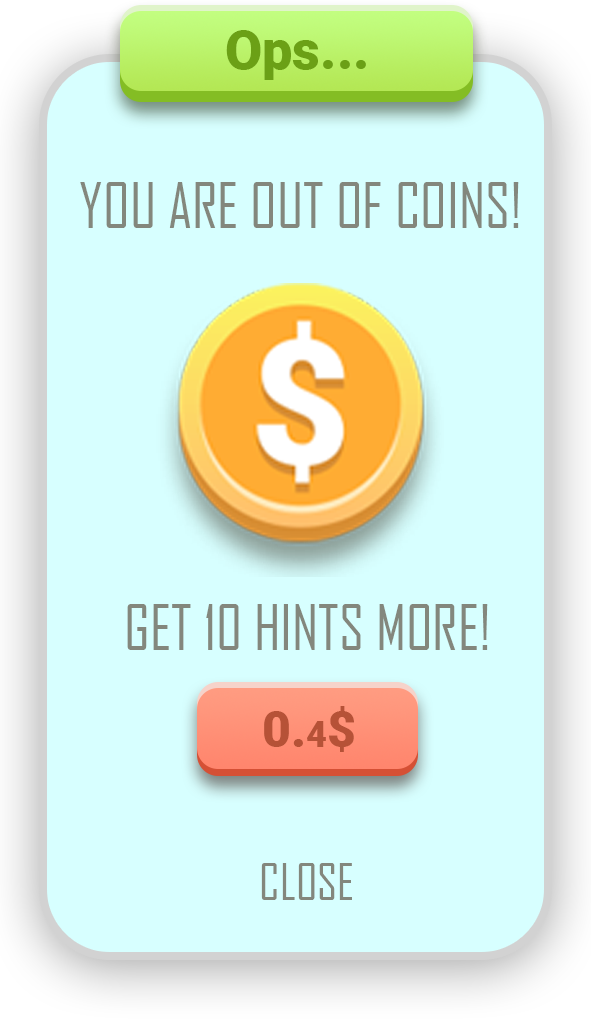
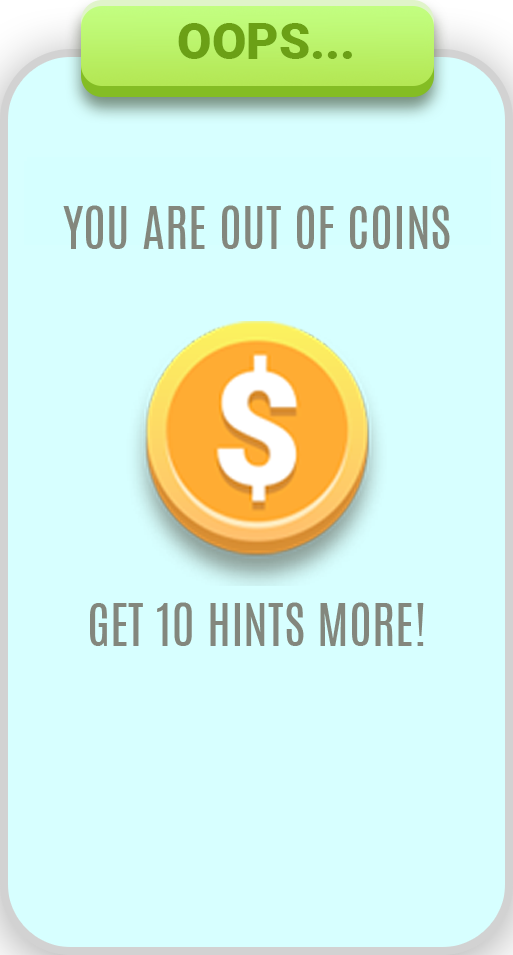
Update out of coins

diff --git a/lib/Screens/GameScreen/Layers/Popups/OutOfCoinsPopup.dart b/lib/Screens/GameScreen/Layers/Popups/OutOfCoinsPopup.dart
@@ -32,53 +32,22 @@ class OutOfCoinsPopup extends StatelessWidget{
                             padding: EdgeInsets.symmetric(vertical: 0, horizontal: 20),
                             child: Container(
                               //color: Colors.blue,
-                              child: Stack(
+                              child: Column(
+                                mainAxisAlignment: MainAxisAlignment.end,
                                 children: [
-                                  Positioned(
-                                        left: 90,
-                                        top: 250,
-                                        width: 130,
-                                        height: 60,
-                                        child:
-                                    Container(
-                                      // decoration: BoxDecoration(
-                                      //     border: Border.all(color: Colors.orangeAccent, width: 4)
-                                      // ),
-                                      child: TextButton(
-                                        style: ButtonStyle(
-                                          foregroundColor: MaterialStateProperty.all<Color>(Colors.blue),
-                                        ),
-                                        onPressed: () {
+                                  GestureDetector(
 
-                                          _onBuyClick(context);
-
-                                          print("TODO: Add analytics on buy btn click");
-                                        },
-                                        child: Text(''),
-                                      ),
-                                    )
-                                    ),
-                                  Positioned(
-                                      left: 0,
-                                      top: 320,
-                                      width: 290,
-                                      height: 70,
-                                      child:
-                                      Container(
-                                        // decoration: BoxDecoration(
-                                        //     border: Border.all(color: Colors.orangeAccent, width: 4)
-                                        // ),
-                                        child: TextButton(
-                                          style: ButtonStyle(
-                                            foregroundColor: MaterialStateProperty.all<Color>(Colors.blue),
-                                          ),
-                                          onPressed: () {
-                                            Navigator.pop(context);
-                                          },
-                                          child: Text(''),
-                                        ),
-                                      )
+                                    onTap: () => _onBuyClick(context),
+                                    child: SizedBox(width: MediaQuery.of(context).size.width/2, child: Image.asset('assets/images/popups/buy-btn.png')),
                                   ),
+                                  GestureDetector(
+                                    onTap: () {
+                                      Navigator.pop(context);
+                                      var analyticsController = getIt.get<AnalyticsController>();
+                                      analyticsController.logEventAsync(AnalyticEvents.CLOSE_BUY_HINTS_CLICK, params: {"compensation" : false});
+                                    },
+                                    child: SizedBox(width: MediaQuery.of(context).size.width/8, child: Image.asset('assets/images/popups/close-buy-btn.png')),
+                                  )
                                 ],
                               ),
                             ),

diff --git a/lib/Screens/LobbyScreen/LobbyScreen.dart b/lib/Screens/LobbyScreen/LobbyScreen.dart
@@ -6,6 +6,7 @@ import 'package:flutter/material.dart';
 import '../Common/Background/StaticBackground.dart';
 import '../Common/TopBar/TopBarLayer.dart';
 import '../GameScreen/Layers/Popups/GameCompletePopup.dart';
+import '../GameScreen/Layers/Popups/OutOfCoinsPopup.dart';
 import 'LobbyLogo.dart';
 import 'LobbyMyStory.dart';
 import 'LobbyNavigation.dart';
@@ -32,7 +33,16 @@ class LobbyScreen extends StatelessWidget {
       );
     });
 */
-
+  /*
+    Timer(Duration(seconds: 1), (){
+      showDialog(
+          context: context,
+          builder: (BuildContext context){
+            return OutOfCoinsPopup();
+        }
+      );
+    });
+*/
     var lobbyWidth = min(MediaQuery.of(context).size.width, 650);
 
     return Scaffold(

diff --git a/lib/Analytics/AnalyticEvent.dart b/lib/Analytics/AnalyticEvent.dart
@@ -7,6 +7,7 @@ class AnalyticEvents{
   static const STORY_ENTER = "story_enter";
   static const LOBBY_ENTER = "lobby_enter";
   static const BUY_HINTS_CLICK = "buy_hints_click";
+  static const CLOSE_BUY_HINTS_CLICK = "close_buy_hints_click";
   static const HINT_CLICK = "hint_click";
   static const SHUFFLE_CLICK = "shuffle_click";
   static const STORY_COMPLETE_POPUP_SHOW = "story_complete_popup_show";
